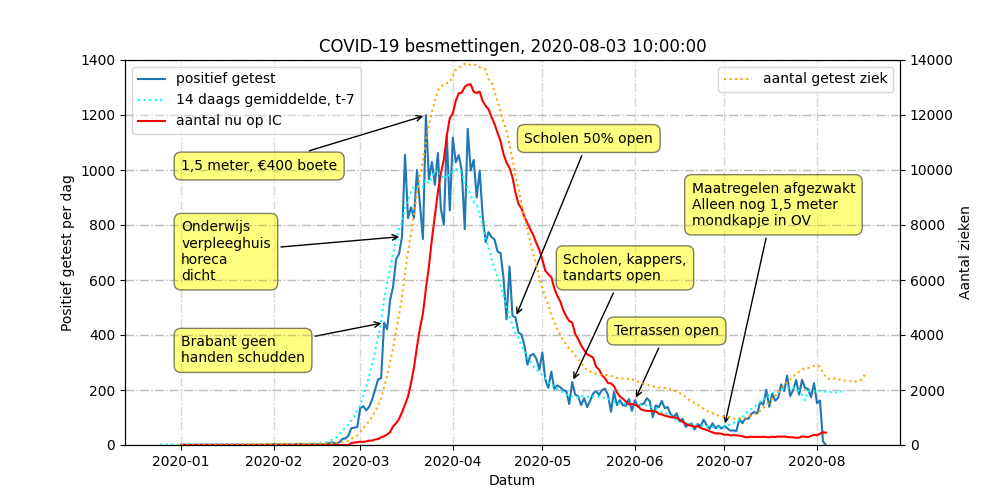
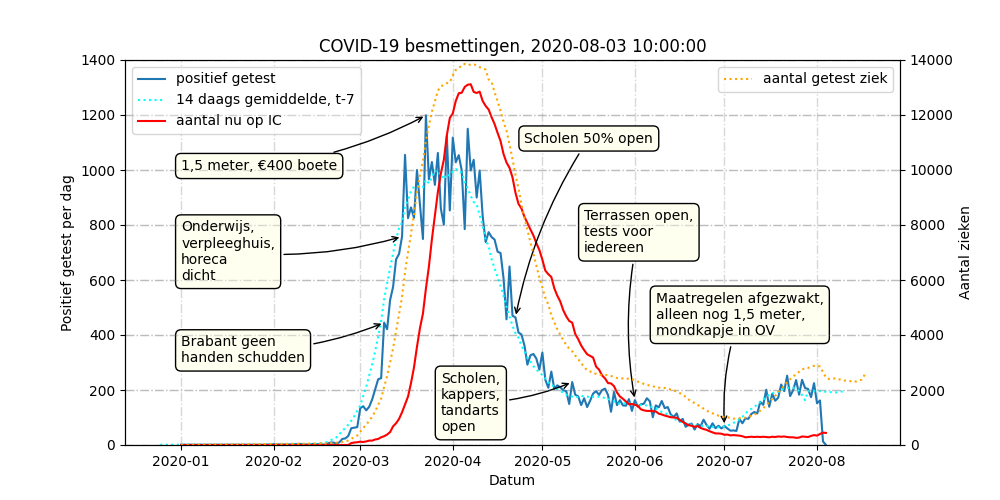
Ran getDailyExcelData

diff --git a/scripts/createGraph.py b/scripts/createGraph.py
@@ -138,8 +138,8 @@ def anotate(plt, metenisweten, datum, tekst, x, y):
         tekst,
         xy=(parser.parse(datum), metenisweten[datum]['positief']),
         xytext=(parser.parse(x), y),
-        bbox=dict(boxstyle='round,pad=0.5', fc='yellow', alpha=0.5),
-        arrowprops=dict(arrowstyle='->', connectionstyle='arc3,rad=0')
+        bbox=dict(boxstyle='round,pad=0.4', fc='ivory', alpha=1),
+        arrowprops=dict(arrowstyle='->', connectionstyle='arc3,rad=0.1')
     )
 
 
@@ -158,15 +158,15 @@ ax1.plot(positief['x'], positief['y'], label='positief getest')
 anotate(ax1, metenisweten, "2020-03-09",
         'Brabant geen\nhanden schudden', "2020-01-01", 300)
 anotate(ax1, metenisweten, "2020-03-15",
-        'Onderwijs\nverpleeghuis\nhoreca\ndicht', "2020-01-01", 600)
+        'Onderwijs,\nverpleeghuis,\nhoreca\ndicht', "2020-01-01", 600)
 anotate(ax1, metenisweten, "2020-03-23",
         '1,5 meter, €400 boete', "2020-01-01", 1000)
 anotate(ax1, metenisweten, "2020-04-22", 'Scholen 50% open', "2020-04-25", 1100)
 anotate(ax1, metenisweten, "2020-05-11",
-        'Scholen, kappers,\ntandarts open', "2020-05-08", 600)
-anotate(ax1, metenisweten, "2020-06-01", 'Terrassen open', "2020-05-25", 400)
+        'Scholen,\nkappers,\ntandarts\nopen', "2020-03-28", 50)
+anotate(ax1, metenisweten, "2020-06-01", 'Terrassen open,\ntests voor\niedereen', "2020-05-15", 700)
 anotate(ax1, metenisweten, "2020-07-01",
-        'Maatregelen afgezwakt\nAlleen nog 1,5 meter\nmondkapje in OV', "2020-06-20", 800)
+        'Maatregelen afgezwakt,\nalleen nog 1,5 meter,\nmondkapje in OV', "2020-06-08", 400)
 
 # Plot average per dag
 ax1.plot(positief_gemiddeld['x'], positief_gemiddeld['y'], color='cyan', linestyle=':',
